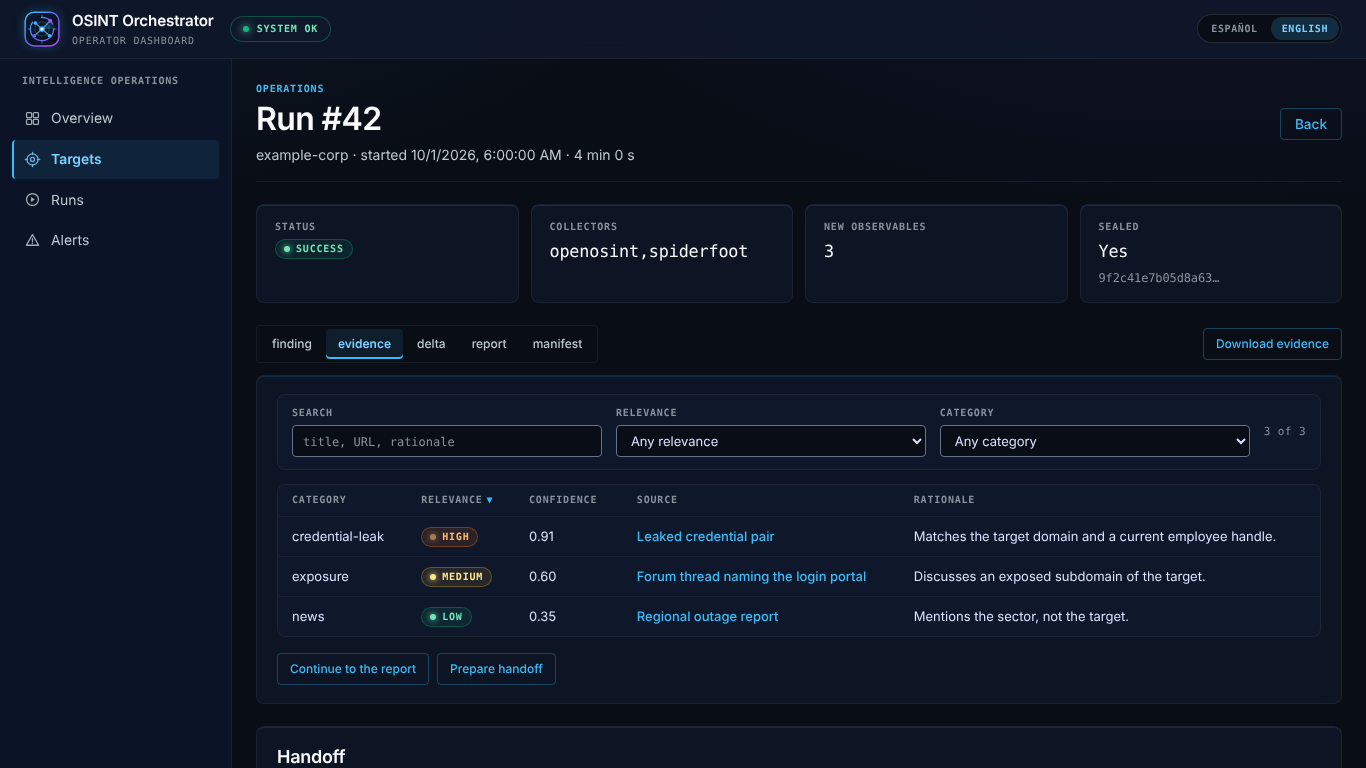
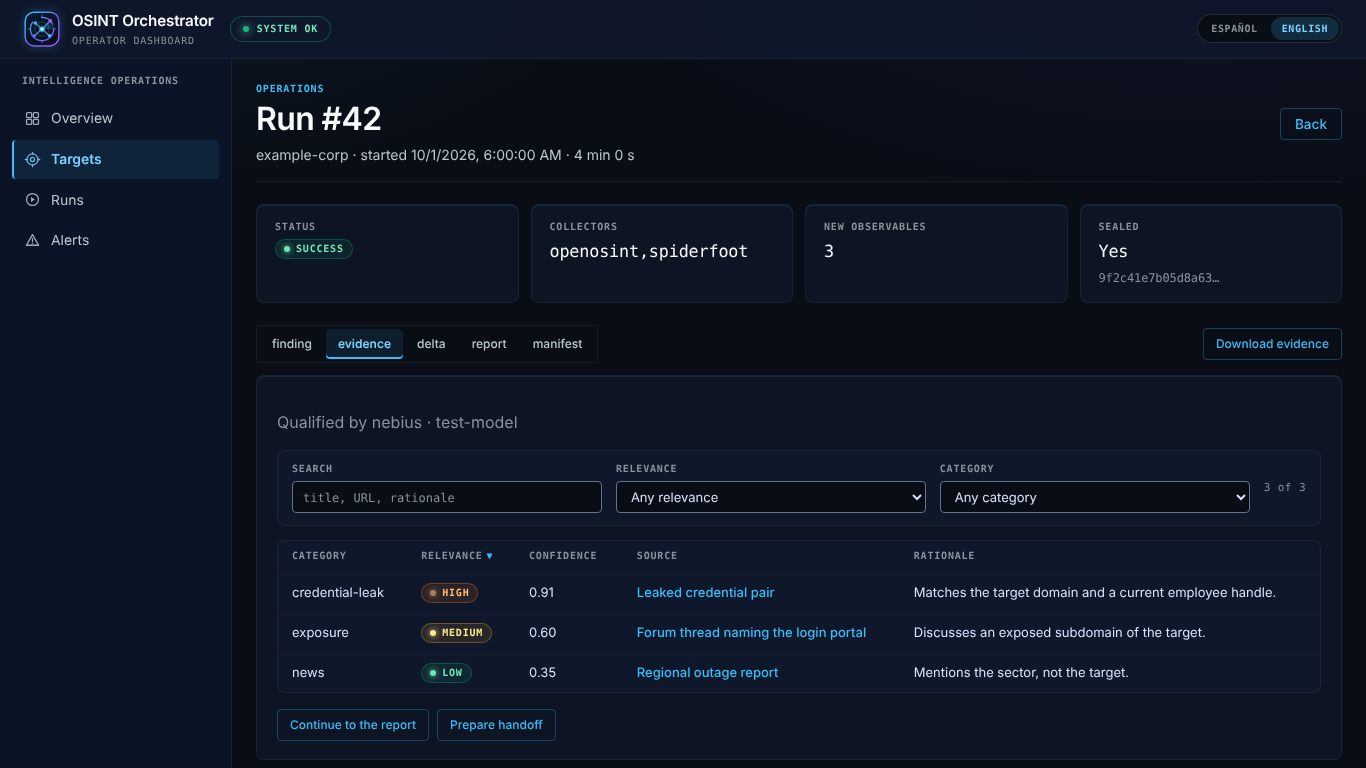
feat(ui): name the model that qualified the evidence
The evidence tab of a run opens with "Qualified by <provider> · <model>",
built from the persisted provider and model of the rows (distinct pairs,
joined), so an operator sees which fast-route model classified what they
are reading, as the finding already shows for the reasoning route.
Catalogue key in both languages; the evidence test checks the line; the
README run-evidence screenshots are regenerated from this build.

Claude-Session: https://claude.ai/code/session_01PP3rFC1v2DapRF8PySonCG

diff --git a/ui/src/pages/RunWorkspacePage.tsx b/ui/src/pages/RunWorkspacePage.tsx
@@ -259,6 +259,10 @@ export function RunWorkspacePage() {
               <p className="muted">{t('runDetail.noEvidence')}</p>
             ) : (
               <>
+                {/* Which model qualified the rows: the fast route's provider and model, as persisted. */}
+                <p className="muted" data-testid="evidence-qualified-by">
+                  {t('evidence.qualifiedBy', { models: distinct(evidence.data, (row) => `${row.provider} · ${row.model}`).join(', ') })}
+                </p>
                 <div className="filters" role="search" aria-label={t('runDetail.evidenceFilters')}>
                   <SearchField label={t('search')} value={controls.get('q')} onChange={(value) => controls.set('q', value)} placeholder={t('runDetail.evidencePlaceholder')} />
                   <label>

diff --git a/ui/src/i18n.tsx b/ui/src/i18n.tsx
@@ -351,6 +351,7 @@ const en = {
   'handoff.summary.link': 'Dashboard',
   'evidence.continueReport': 'Continue to the report',
   'evidence.prepareHandoff': 'Prepare handoff',
+  'evidence.qualifiedBy': 'Qualified by {models}',
   // identifier values (display labels only; the data keeps the English value)
   'value.pending': 'pending',
   'value.running': 'running',
@@ -697,6 +698,7 @@ const es: Record<MessageKey, string> = {
   'handoff.summary.link': 'Panel',
   'evidence.continueReport': 'Continuar al informe',
   'evidence.prepareHandoff': 'Preparar la entrega',
+  'evidence.qualifiedBy': 'Calificada por {models}',
   'value.pending': 'pendiente',
   'value.running': 'en curso',
   'value.success': 'exitosa',

diff --git a/ui/src/App.test.tsx b/ui/src/App.test.tsx
@@ -454,6 +454,8 @@ describe('App shell', () => {
     await user.click(screen.getByRole('tab', { name: /evidence/i }));
     const table = await within(screen.getByRole('tabpanel')).findByRole('table');
     const rowsOf = () => within(table).getAllByRole('row').slice(1);
+    // The fast route that qualified the rows is named once above the table.
+    expect(screen.getByTestId('evidence-qualified-by')).toHaveTextContent('Qualified by nebius · test-model');
     // Default: relevance descending.
     expect(rowsOf().map((row) => row.textContent)).toEqual([
       expect.stringContaining('Leaked credential pair'),

diff --git a/CHANGELOG.md b/CHANGELOG.md
@@ -11,6 +11,10 @@ from [SECURITY.md](SECURITY.md).
 
 ### Added
 
+- Dashboard: the evidence tab of a run names the provider and model that
+  qualified the rows ("Qualified by nebius · nvidia/…"), next to the finding
+  that already shows its reasoning model and latency. README screenshots
+  regenerated.
 - README (both languages): the hackathon table now lists the work merged since the
   first dashboard, from alert cases and the external STIX intake to the threat model.
 - investigation-assistant worker (ADR-011, phase 3): `docker-compose.engine.yml`
